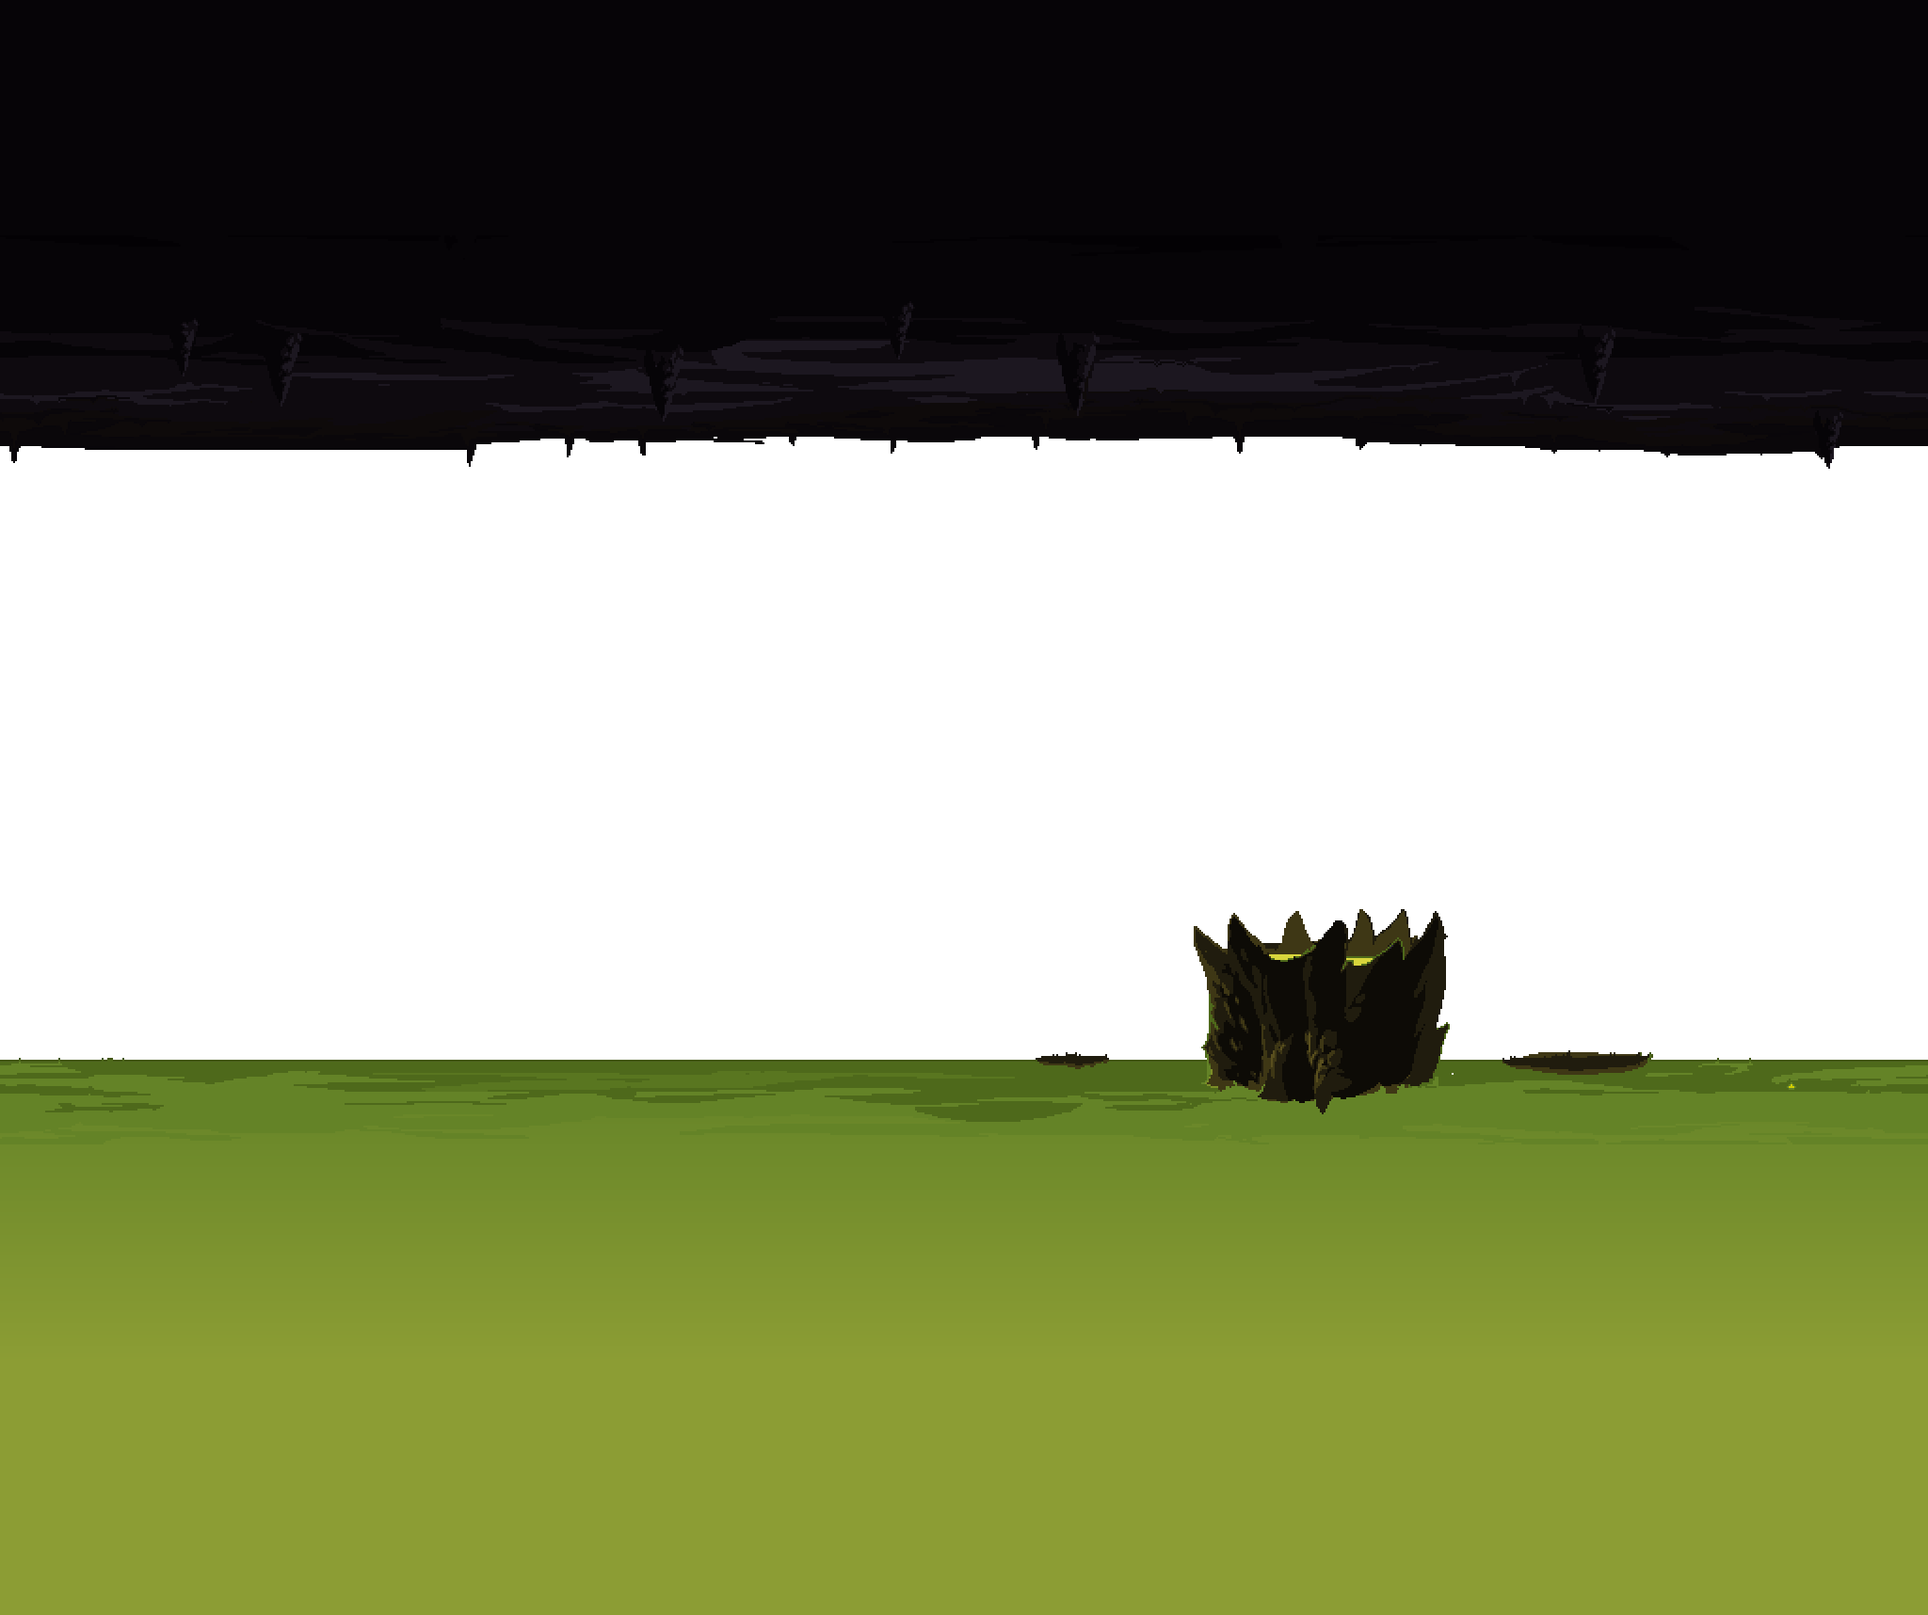
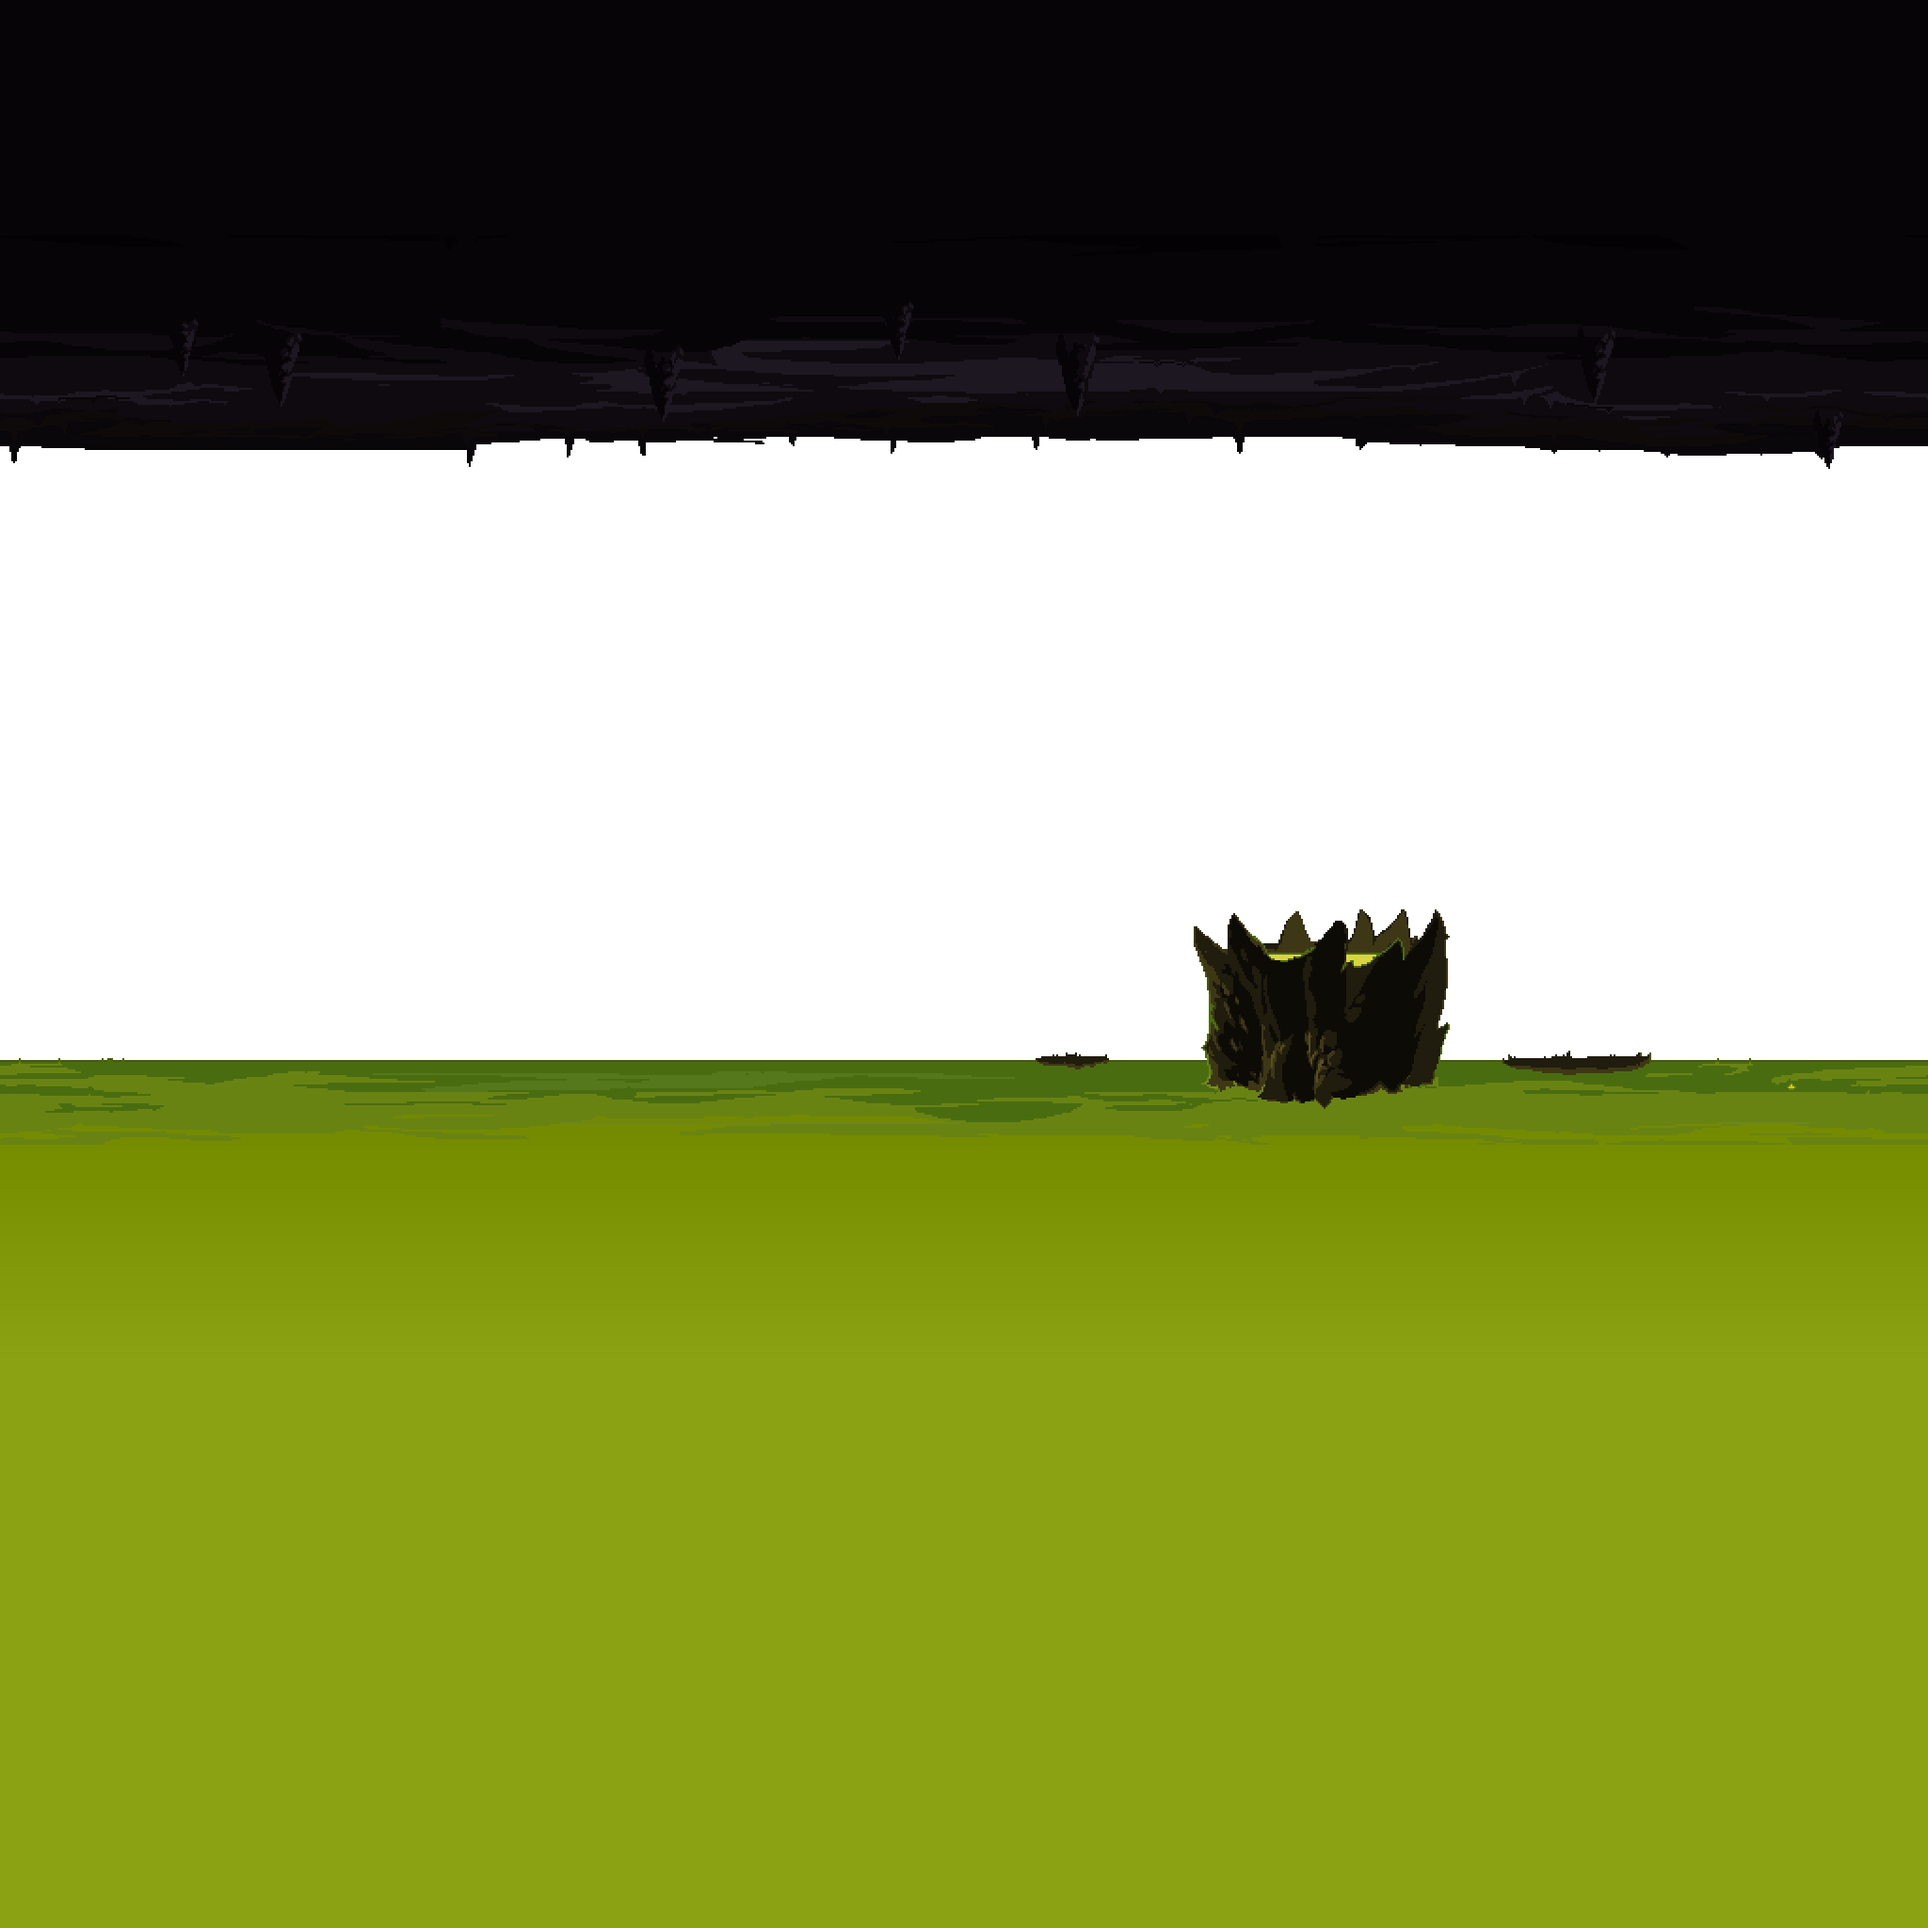
Feat/fix: Corruption background sprite, layout, lighting pass + Polyp ore emission adjustement

diff --git a/src/EvilExpansionMod/Content/Corruption/Tiles/PolypOreTile.cs b/src/EvilExpansionMod/Content/Corruption/Tiles/PolypOreTile.cs
@@ -97,9 +97,31 @@ public class PolypOreTile : ModTile {
     }
 
     public override void ModifyLight(int i, int j, ref float r, ref float g, ref float b) {
-        r = 0.24f;
-        g = 0.246f;
-        b = 0.42f;
+        bool exposedToAir =
+        IsAir(i, j - 1) || // Above
+        IsAir(i, j + 1) || // Below
+        IsAir(i - 1, j) || // Left
+        IsAir(i + 1, j);   // Right
+
+        if(exposedToAir) {
+            r = 0.2f;
+            g = 0.2f;
+            b = 0.45f;
+        }
+        else {
+            r = 0.14f;
+            g = 0.146f;
+            b = 0.22f;
+        }
+    }
+    private bool IsAir(int x, int y) {
+        // Out-of-bounds error prevention near world edges
+        if(!WorldGen.InWorld(x, y)) return false;
+
+        Tile tile = Main.tile[x, y];
+
+        // Has no active block OR is actuated
+        return !tile.HasTile || tile.IsActuated;
     }
     public override void EmitParticles(int i, int j, Tile tile, short tileFrameX, short tileFrameY, Color tileLight, bool visible) {
         if (Main.rand.NextBool(200)){

diff --git a/src/EvilExpansionMod/Common/World/_Backgrounds/UnderworldCorruptionBGSystem.cs b/src/EvilExpansionMod/Common/World/_Backgrounds/UnderworldCorruptionBGSystem.cs
@@ -156,7 +156,7 @@ internal sealed class UnderworldCorruptionBgSystem : ModSystem {
                     num7 = 6f;
                     break;
                 case 4:
-                    num7 = 4f;
+                    num7 = 3.7f;
                     break;
                 case 5:
                     num7 = 2f;
@@ -186,10 +186,11 @@ internal sealed class UnderworldCorruptionBgSystem : ModSystem {
                 zero.Y += 160;
                 break;
             case 3:
-                zero.Y += 290f;
+                //zero.Y += 335f;
+                zero.Y += 450f;
                 break;
             case 4:
-                zero.Y += 350f;
+                zero.Y += 380f;
                 break;
             case 5:
                 zero.Y += 980f;

diff --git a/src/EvilExpansionMod/Common/World/_Lava/_Styles/UnderworldCorruptLavaStyle.cs b/src/EvilExpansionMod/Common/World/_Lava/_Styles/UnderworldCorruptLavaStyle.cs
@@ -32,8 +32,10 @@ public class UnderworldCorruptLavaStyle : ModLavaStyle {
     }
 
     public override void ModifyVertexColors(int x, int y, ref VertexColors colors) {
-        var colorA = new Color(255, 167, 60, 255) * 1.6f;
-        var colorB = new Color(144, 255, 60, 255) * 0.86f;
+        var colorA = new Color(205, 255, 0, 255) * 1f;
+        //var colorA = new Color(255, 167, 60, 255) * 1.6f;
+        var colorB = new Color(255, 255, 0, 255) * 3f;
+        //var colorB = new Color(144, 255, 60, 255) * 0.86f;
 
         var distanceFromBottom = Math.Max(Main.maxTilesY - y - 88f, 0f);
         var range = 35f;

diff --git a/src/EvilExpansionMod/Content/Corruption/UnderworldCorruptionBiome.cs b/src/EvilExpansionMod/Content/Corruption/UnderworldCorruptionBiome.cs
@@ -27,7 +27,7 @@ public sealed class UnderglowCorruption : ModSystem {
     public override void ModifyLightingBrightness(ref float brightness) {
         Player player = Main.LocalPlayer;
         if(Main.LocalPlayer.InModBiome<UnderworldCorruptionBiome>()) {
-            brightness += -0.04f;
+            brightness += -0.02f;
         }
     }
 }
